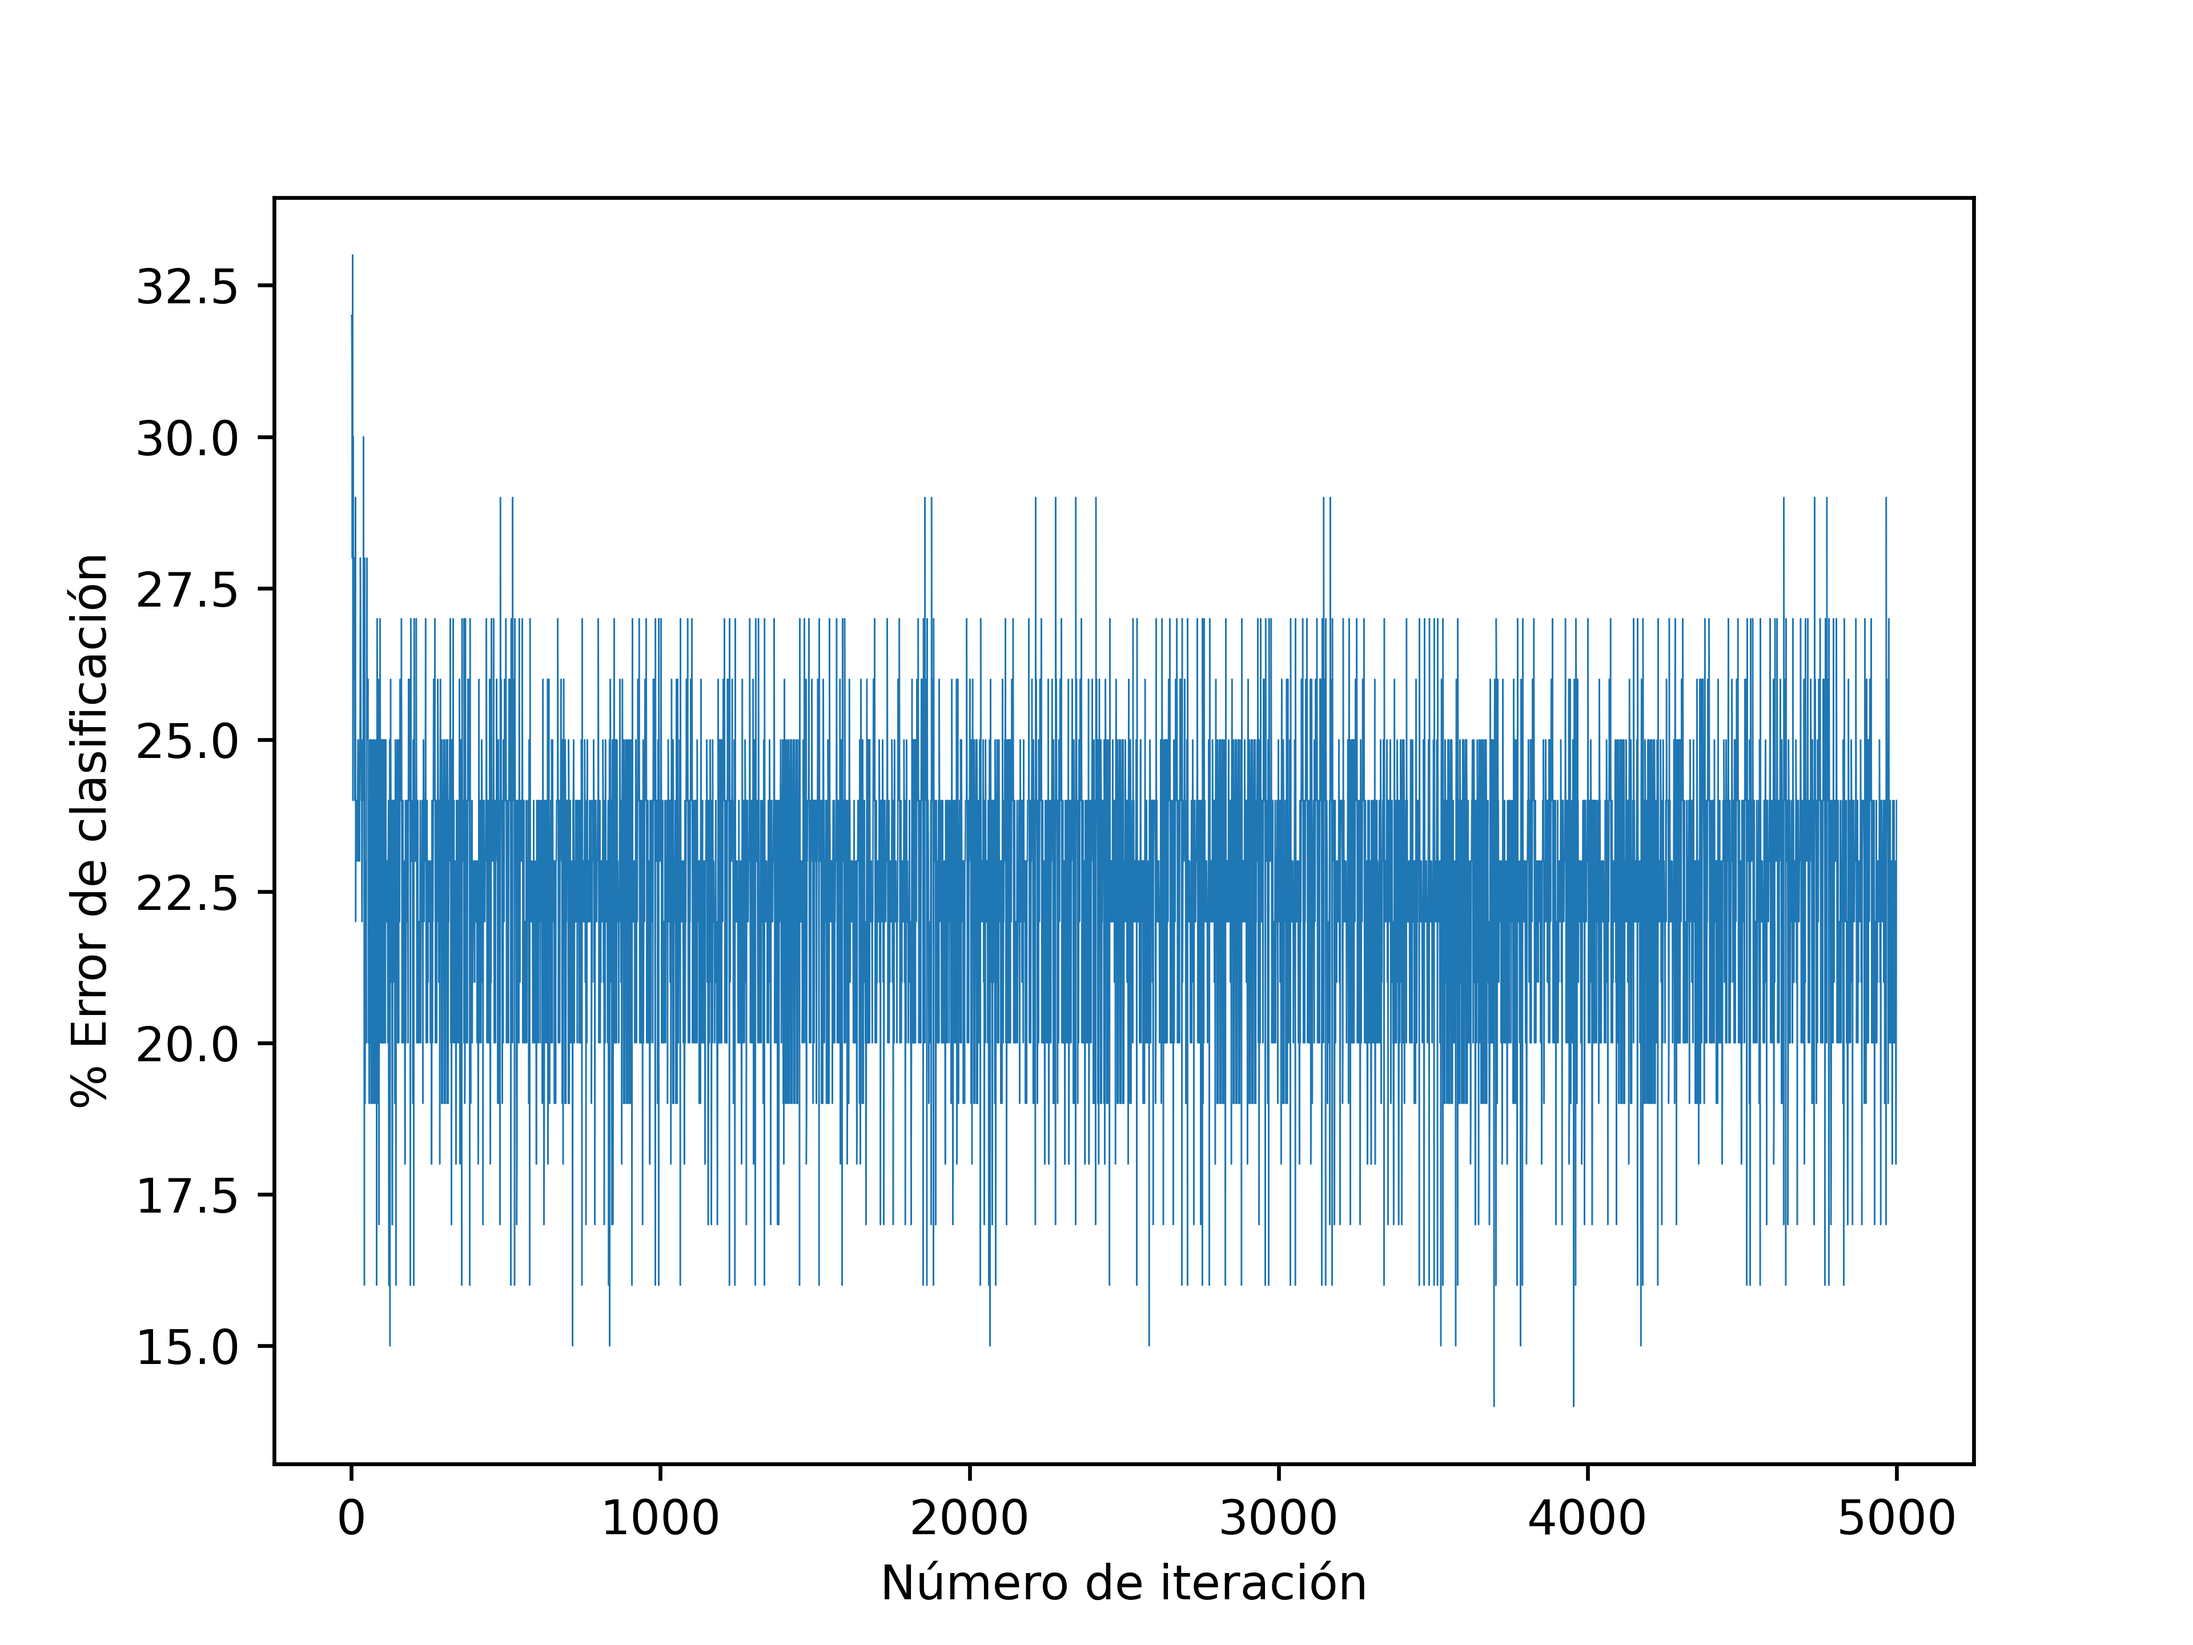
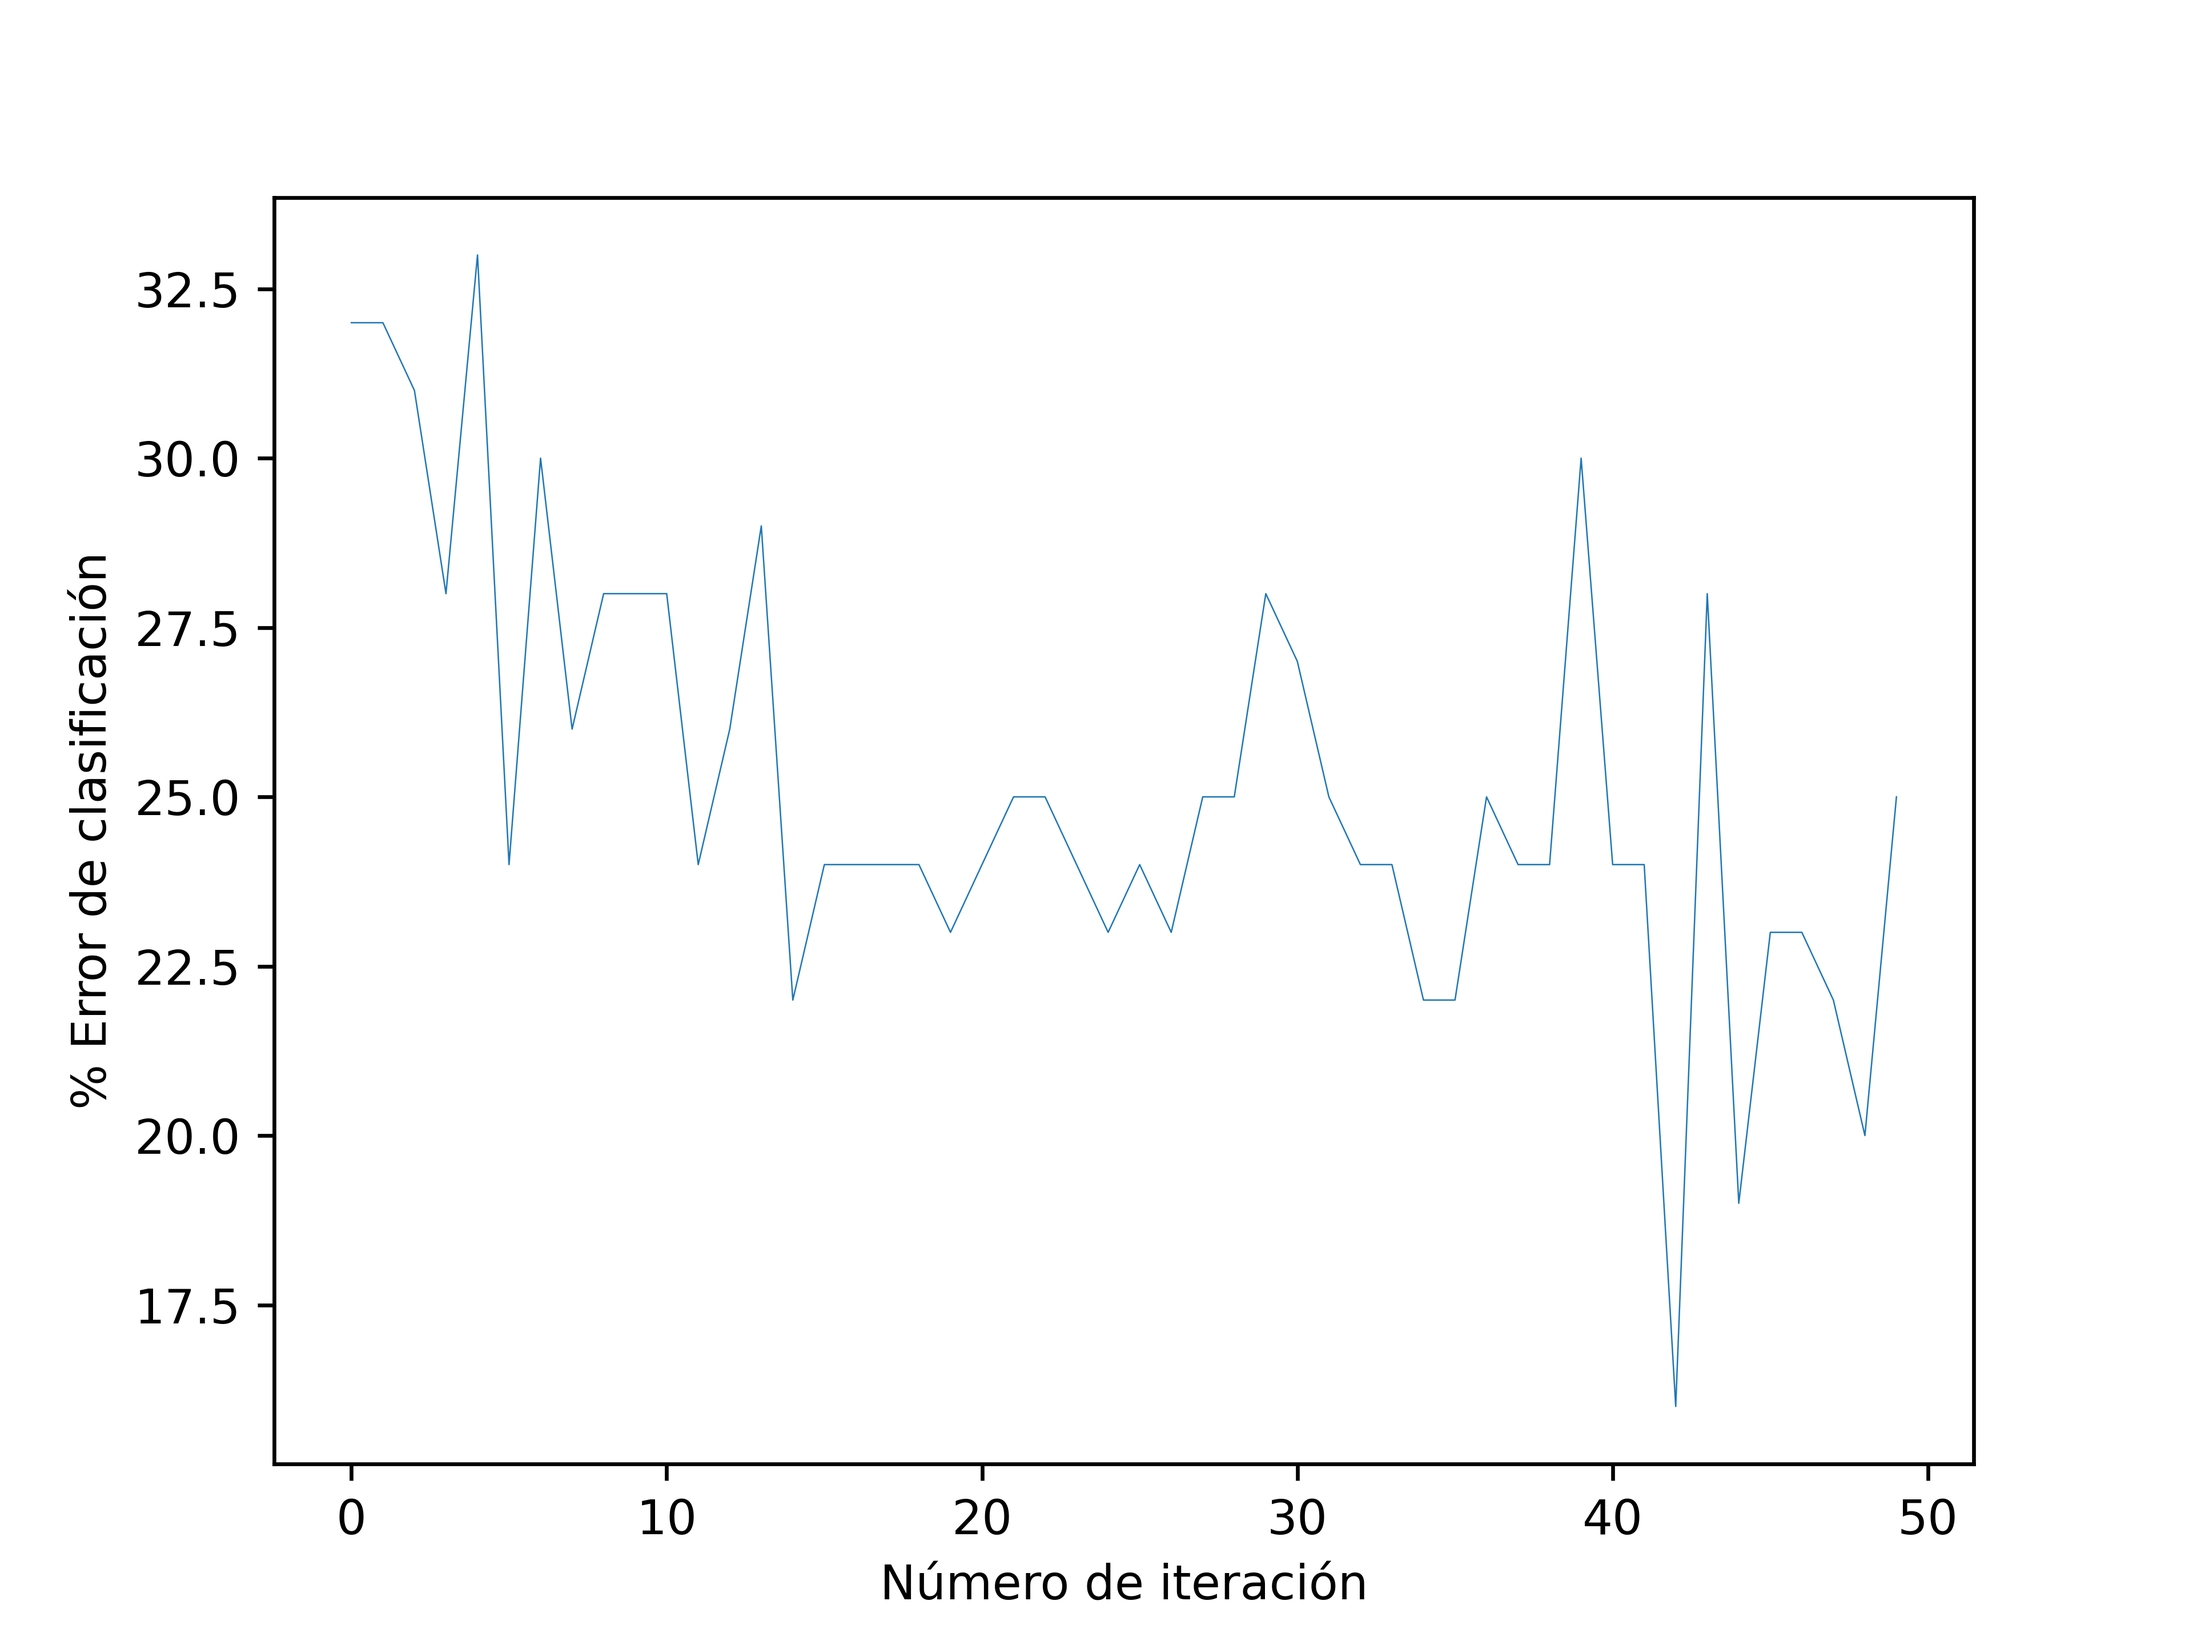
Codigo regresion lineal

diff --git a/Practica_2/practica2.py b/Practica_2/practica2.py
@@ -6,8 +6,10 @@ Nombre Estudiante: Ricardo Ruiz Fernandez de Alba
 import numpy as np
 import matplotlib.pyplot as plt
 import matplotlib.colors as mcolors
-from matplotlib.animation import FuncAnimation
 import itertools
+import warnings
+
+from matplotlib.animation import FuncAnimation, FFMpegWriter
 
 figures = r"memoria\chap1\images"
 
@@ -396,7 +398,7 @@ class Animation:
     def scatter_label(self):
         """Pinta los puntos con sus clases (colores)"""
         for label in np.unique(self.y):
-            x_label = self.X[:, 1:][y == label]
+            x_label = self.X[:, 1:][self.y == label]
             self.ax.scatter(x_label[:, 0], x_label[:, 1], s=10, 
                        color=next(self.colors), alpha=1, 
                        label=f"Etiqueta {label}")
@@ -458,10 +460,24 @@ class Animation:
         plt.show()
         #plt.close()
 
-    def save(self):
+    def save(self, format="gif", fps=None):
         """BORRAR"""
 
-        self.anim.save(fr"{figures}\{self.animname}.gif", writer="imagemagick")
+        if format == "gif":
+            print(f"Guardando animacion {self.animname} en GIF")
+            self.anim.save(fr"{figures}\{self.animname}.gif", writer="imagemagick")
+        elif format == "mp4":
+            if fps is None:
+                fps = 10
+            FFwriter = FFMpegWriter(fps)
+            print(f"Guardando animacion {self.animname} en MP4")
+            self.anim.save(fr"{figures}\{self.animname}.mp4", writer=FFwriter)
+
+def homogeneizar(X):
+    """Añade una columna inicial de unos a una matriz"""
+
+    columna_unos = np.ones((len(X), 1))
+    return np.hstack((columna_unos, X))
 
 def tabla_resultados(X, y, max_iter=10_000, figname1=None, figname2=None, 
                      animation=False, linewidth=1, interval=25):
@@ -487,7 +503,9 @@ def tabla_resultados(X, y, max_iter=10_000, figname1=None, figname2=None,
     ax.set_ylabel("% Error de clasificación")
     ax.plot(xs, errs0, linewidth=linewidth)
     plt.savefig(fr"{figures}\{figname1}.png", dpi=600)
-    plt.show()
+    #plt.show()
+    plt.close()
+    
 
     # # Random initializations
     iterations = []
@@ -519,16 +537,16 @@ def tabla_resultados(X, y, max_iter=10_000, figname1=None, figname2=None,
                 "v_ini nulo": w0,
                 "v_ini aleatorio (7ta it)": w7}
 
-    scatter_label_lines(X[:, 1:], y, ws_labels=ws_labels, 
-                        x1_lim=(-50, 50), x2_lim=(-50, 50),
-                        figname=figname2, legend_upper=True)
+    #scatter_label_lines(X[:, 1:], y, ws_labels=ws_labels, 
+    #                    x1_lim=(-50, 50), x2_lim=(-50, 50),
+    #                    figname=figname2, legend_upper=True)
 
 
 # Reutilizamos apartado 2a del Ej 1. (Linealmente separables)
 # Con datos en forma homogénea (1 | x1 | x2)
 print("Ejercicio 2a \n")
-columna_unos = np.ones((len(X), 1))
-X = np.hstack((columna_unos, X))
+
+X = homogeneizar(X)
 y = y_original
 
 y_s = y.copy()
@@ -539,6 +557,8 @@ tabla_resultados(X, y, max_iter=10_000, figname1="Figure_9",
                  figname2="Figure_10", animation=False, interval=100)
 
 
+#input("\n--- Pulsar tecla para continuar ---\n")
+
 print("Ejercicio 2b \n")
 # Reutilizamos apartado 2b del Ej 1. (10% Ruido no l.s)
 # Con datos en forma homogénea
@@ -547,17 +567,11 @@ y = y_noise
 y_s = y.copy()
 y_s.shape = (len(y_s), 1)
 np.savetxt("muestra_noise.csv", np.hstack((X, y_s)), delimiter=",")
+max_iter = 50
 
-tabla_resultados(X, y, max_iter=5_000, figname1="Figure_11",
+tabla_resultados(X, y, max_iter=max_iter, figname1="Figure_11",
                  figname2="Figure_12", linewidth=0.3, 
                 animation=False)
-
-
-#input("\n--- Pulsar tecla para continuar ---\n")
-
-# Ahora con los datos del ejercicio 1.2.b
-
-#CODIGO DEL ESTUDIANTE
 
 
 #input("\n--- Pulsar tecla para continuar ---\n")
@@ -568,14 +582,133 @@ tabla_resultados(X, y, max_iter=5_000, figname1="Figure_11",
 
 # EJERCICIO 3: REGRESIÓN LOGÍSTICA CON STOCHASTIC GRADIENT DESCENT
 
-def sgdRL():
-    #CODIGO DEL ESTUDIANTE
+def error_clasificacion(X, y, w):
+    """
+    Calcula el porcentaje de error de clasificacion
 
-    return w
+    Las entradas negativas son aquellas donde los signos iniciales eran distintos.
+    (Elementos mal clasificados)
+    """
+    signos = y * (X @ w)
+    return 100 * len(signos[signos < 0]) / len(signos)
+
+def error_clas(X, y, w):
+
+    err = 0
+    for xi, yi in zip(X, y):
+        if signo(xi @ w) != yi:
+            err += 1
+
+    return 100 * err / len(X) 
+
+def error_RL(X, y, w):
+    """Calcula el error de entropía cruzada E_in para Regresión Logística"""
+
+    return np.mean(np.log(1 + np.exp(-y * X.dot(w))))
+
+def grad_ein_RL(xi, yi, w):
+    """Calcula el gradiente de Ein para Regresion Logistica"""
+
+    return -yi*xi / (1 + np.exp(yi*w.dot(xi)))
+
+def sgdRL(X, y, lr, max_iter, batch_size=32):
+    """Algoritmo de regresión logística. Basado en SGD-Batch"""
+
+    it = 0
+    X_ids = np.arange(len(X))
+
+    # Inicializamos w_ini a 0
+    w = np.array([0, 0, 0])
+    ws = []
+
+    w_dif = np.Infinity
+
+    while it < max_iter and w_dif >= 0.01:
+        w_old = w.copy()
+        X_ids = np.random.permutation(X_ids)
+
+        # Batch de tamaño 1
+        for batch_id in X_ids:
+            grad = grad_ein_RL(X[batch_id], y[batch_id], w)
+            w = w - lr*grad
+
+        ws.append(w)
+        w_dif = np.linalg.norm(w_old - w)
+
+        it += 1  # Numero de epocas
+
+    return ws, it
 
 
+E_ins = []
+E_outs = []
+E_clas_ins = []
+E_clas_outs = []
+epocas = []
+for i in range(100):
+    # Nuevo conjunto de datos χ = [0, 2] x [0, 2]
+    # N = 100
+    # Recta aleatoria para clasificar
 
-#CODIGO DEL ESTUDIANTE
+    X_train = homogeneizar(simula_unif(100, 2, [0, 2]))
+    X_test = homogeneizar(simula_unif(1000, 2, [0, 2]))
+
+    # Etiquetar los puntos train
+    a, b = simula_recta([0, 2])
+    y_train = np.fromiter((f(x1, x2, a, b) for _, x1, x2 in X_train), np.int64)
+
+    # Etiquetar puntos test
+    y_test = np.fromiter((f(x1, x2, a, b) for _, x1, x2 in X_test), np.int64)
+    
+    eta = 0.01
+    max_iter = 10_000
+
+    ws, it = sgdRL(X_train, y_train, eta, max_iter)
+
+    E_in = error_RL(X_train, y_train, ws[-1])
+    E_clas_in = error_clas(X_train, y_train, ws[-1])
+
+    E_out = error_RL(X_test, y_test, ws[-1])
+    E_clas_out = error_clas(X_test, y_test, ws[-1])
+
+    E_ins.append(E_in)
+    E_clas_ins.append(E_clas_in)
+    E_clas_outs.append(E_clas_out)
+    E_outs.append(E_out)
+    epocas.append(it)
+
+    print(f"It: {it}, E_in: {E_in}, E_out: {E_out}")
+    print(f"E_clas_in: {E_clas_in}, E_clas_out: {E_clas_out}\n")
+
+    # Mostrar animacion del primero
+    if i == 0:
+        anim = Animation(X_train, y_train, interval=50,
+                         x1_lim=(0, 2), x2_lim=(0, 2), animname="RegresionLineal")
+        anim.render(ws)
+        anim.show()
+
+
+epocas_min, epocas_max = np.min(epocas), np.max(epocas)
+print(f"Epocas: (Min, max) = ({epocas_min}, {epocas_max})")
+epocas_mean = np.mean(epocas)
+print("Media 1")
+E_in_mean = np.mean(E_ins)
+print("Media 2")
+E_out_mean = np.mean(E_outs)
+print("Media 3")
+E_clas_in_mean = np.mean(E_clas_ins)
+print("Media 4")
+E_clas_out_mean = np.mean(E_clas_outs)
+print("Media 5")
+
+print(f"Promedio => Epocas: {epocas_mean} | E_out: {E_out_mean} | E_clas_in: {E_clas_in_mean} | E_clas_out : {E_clas_out_mean} ")
+
+    # fig, ax = plt.subplots()
+    # ax.set_xlabel("$eta$")
+    # ax.set_ylabel("$E_{in} \cdot it$")
+    # ax.plot(best_prod.keys(), best_prod.values())
+    # plt.show()
+
 
 #input("\n--- Pulsar tecla para continuar ---\n")
     
@@ -619,9 +752,9 @@ def readData(file_x, file_y, digits, labels):
 	return x, y
 
 # Lectura de los datos de entrenamiento
-x, y = readData('datos/X_train.npy', 'datos/y_train.npy', [4,8], [-1,1])
+#x, y = readData('datos/X_train.npy', 'datos/y_train.npy', [4,8], [-1,1])
 # Lectura de los datos para el test
-x_test, y_test = readData('datos/X_test.npy', 'datos/y_test.npy', [4,8], [-1,1])
+#x_test, y_test = readData('datos/X_test.npy', 'datos/y_test.npy', [4,8], [-1,1])
 
 
 #mostramos los datos
